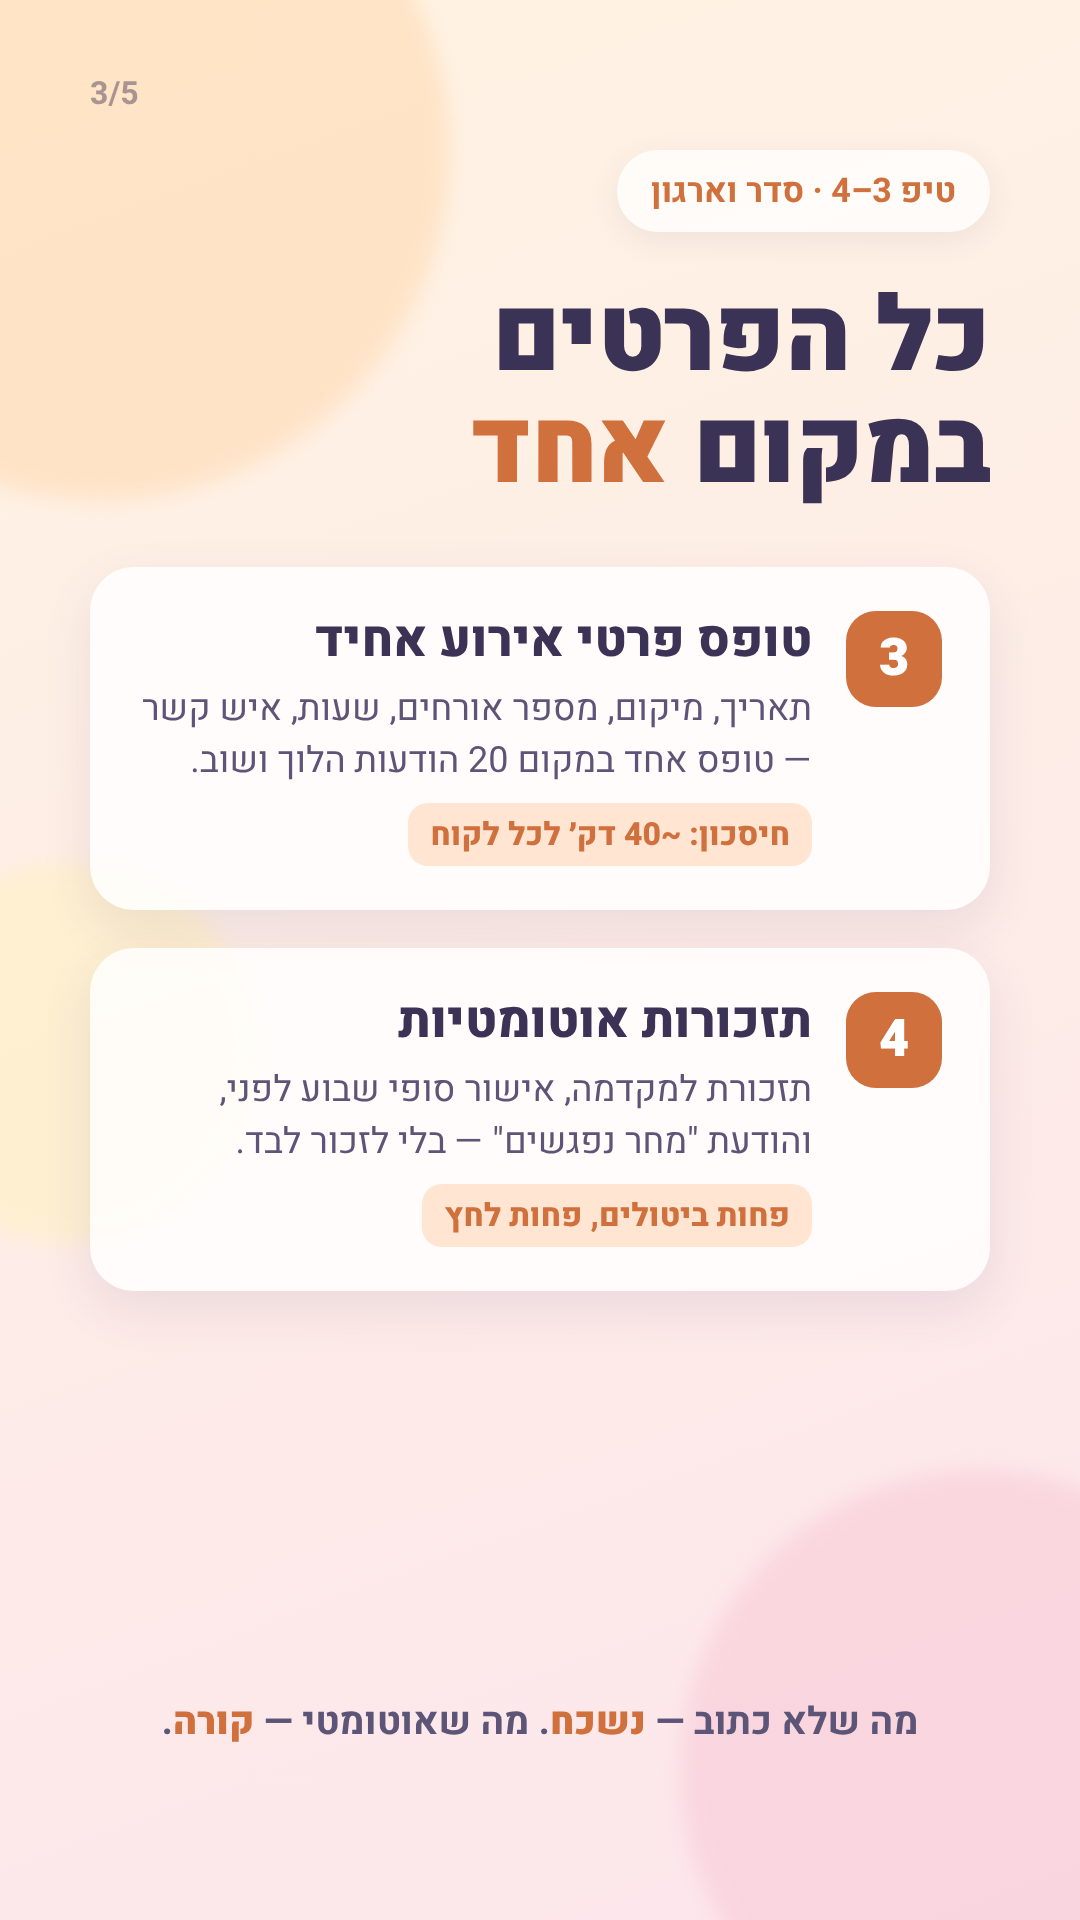
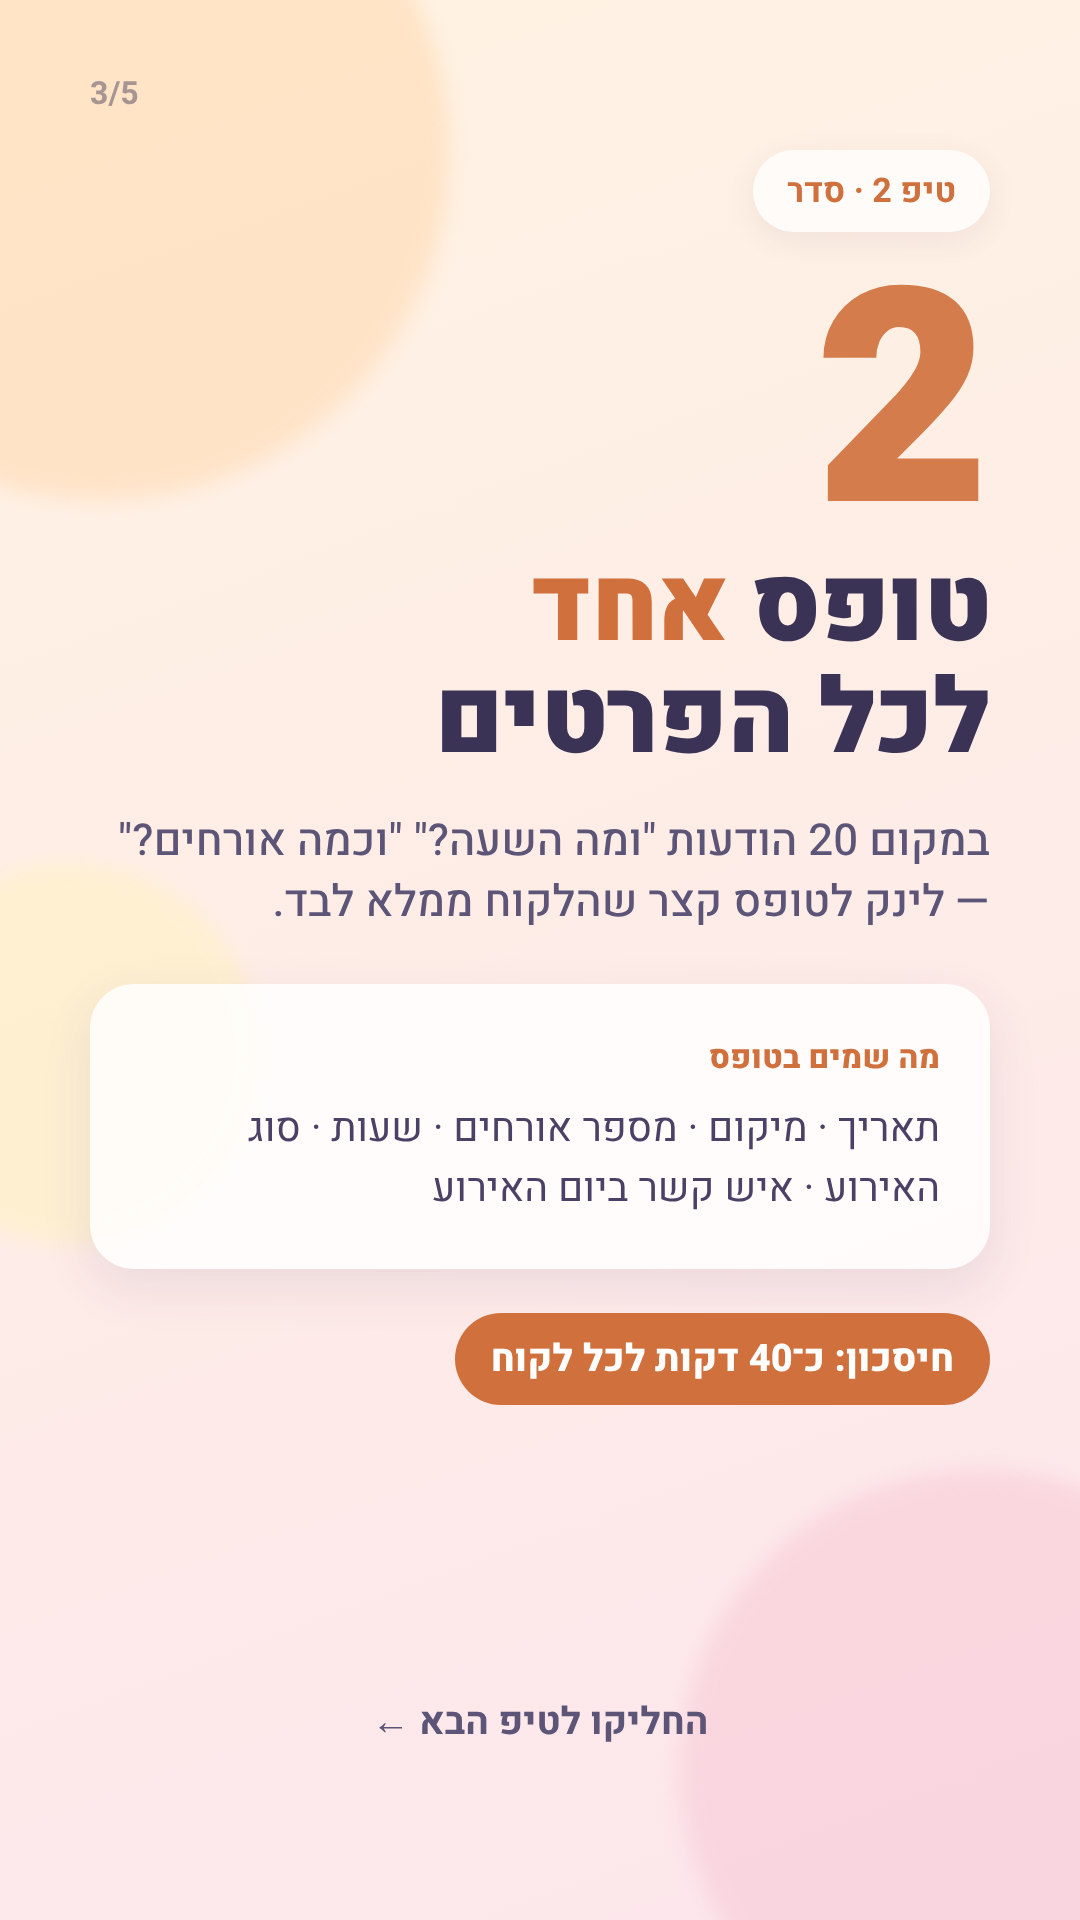
Rework TikTok carousel: hook slide, 3 general tips, quote system as tip 4
Claude-Session: https://claude.ai/code/session_01HykdwJMjJhYxndv9QKPnXH

diff --git a/tiktok-images/generate.js b/tiktok-images/generate.js
@@ -23,10 +23,21 @@ h1 em{font-style:normal;color:var(--accent)}
 .foot{margin-top:auto;font-size:38px;font-weight:700;color:#5d5578;text-align:center}
 .foot b{color:var(--accent)}
 `;
+const css2 = `
+.big{font-size:300px;font-weight:900;line-height:.9;color:var(--accent);opacity:.9;margin-top:40px}
+.ex{margin-top:50px;background:rgba(255,255,255,.82);border-radius:44px;padding:50px;box-shadow:0 18px 50px rgba(80,60,120,.10)}
+.ex .lbl{font-size:32px;font-weight:800;color:var(--accent);margin-bottom:18px}
+.ex p{font-size:40px;line-height:1.5;color:#4a4266}
+.bubble{background:var(--soft);border-radius:30px 30px 30px 8px;padding:28px 34px;font-size:38px;line-height:1.45;margin-top:16px;color:#3B3355}
+.chip{align-self:flex-start;margin-top:44px;background:var(--accent);color:#fff;font-weight:800;font-size:38px;padding:18px 36px;border-radius:60px}
+.hero-list{margin-top:70px;display:flex;flex-direction:column;gap:30px}
+.hero-list div{background:rgba(255,255,255,.8);border-radius:36px;padding:34px 44px;font-size:44px;font-weight:700;box-shadow:0 14px 40px rgba(80,60,120,.08)}
+.hero-list span{color:var(--accent);font-weight:900;margin-left:18px}
+`;
 const blobs = (c1,c2,c3)=>`<div class="bgl"><div class="blob" style="width:700px;height:700px;background:${c1};top:-200px;left:-250px"></div>
 <div class="blob" style="width:600px;height:600px;background:${c2};bottom:-150px;right:-200px"></div>
 <div class="blob" style="width:380px;height:380px;background:${c3};top:45%;left:-120px"></div></div>`;
-const page = (n, theme, body) => `<!doctype html><html><head><meta charset="utf-8"><style>${css}
+const page = (n, theme, body) => `<!doctype html><html><head><meta charset="utf-8"><style>${css}${css2}
 :root{--bg:${theme.bg};--accent:${theme.accent};--soft:${theme.soft}}</style></head>
 <body>${blobs(...theme.blobs)}<div class="page">${n}/5</div><div class="wrap">${body}</div></body></html>`;
 const card = (i,t,p,s)=>`<div class="card"><div class="num">${i}</div><div><h3>${t}</h3><p>${p}</p>${s?`<span class="save">${s}</span>`:''}</div></div>`;
@@ -40,37 +51,38 @@ const T = [
 ];
 
 const pages = [
- page(1,T[0],`<div class="tag">לבעלי עסקים קטנים בתחום האירועים</div>
- <h1>עובדים 12 שעות ביום<br>ו<em>עדיין</em> לא מספיקים?</h1>
- <div class="sub">רוב הזמן שלכם לא הולך על האירוע עצמו —<br>הוא הולך על כל מה שמסביב.</div>
- <div class="cards">
-  ${card('?','מענה לאותן שאלות שוב ושוב','"כמה זה עולה?" "אתם פנויים ב־12/3?"')}
-  ${card('?','רדיפה אחרי מקדמות ואישורים','הודעות, תזכורות, ועוד הודעות…')}
-  ${card('?','הצעת מחיר שלוקחת שעה','וורד, מחשבון, תיקונים ושליחה מחדש')}
+ page(1,T[0],`<div class="tag">לבעלי עסקים בתחום האירועים</div>
+ <h1 style="font-size:116px;margin-top:80px">בעל עסק של אירועים<br>ו<em>אין לך זמן?</em></h1>
+ <div class="sub" style="font-size:52px;font-weight:700;color:#3B3355;margin-top:50px">קבל 4 טיפים לחסוך זמן<br>כבר מהשבוע הזה</div>
+ <div class="hero-list">
+  <div><span>01</span>פחות הקלדה</div>
+  <div><span>02</span>פחות הודעות הלוך ושוב</div>
+  <div><span>03</span>פחות הסחות דעת</div>
+  <div><span>04</span>הטיפ שחוסך הכי הרבה</div>
  </div>
- <div class="foot">החליקו ← <b>טיפים שיחזירו לכם שעות כל שבוע</b></div>`),
- page(2,T[1],`<div class="tag">טיפ 1–2 · תקשורת עם לקוחות</div>
- <h1>תפסיקו <em>להקליד</em><br>את אותה הודעה</h1>
- <div class="cards">
-  ${card(1,'הודעות מוכנות בוואטסאפ ביזנס','הכינו תשובות קבועות: מחירון בסיסי, אזורי שירות, איך מזמינים, מה כלול בחבילה. לחיצה אחת — ונשלח.','חיסכון: ~3 שעות בשבוע')}
-  ${card(2,'יומן זמינות אונליין','במקום "רגע, אני בודק ביומן" — שלחו לינק שבו הלקוח רואה תאריכים פנויים וקובע שיחה לבד.','חיסכון: ~2 שעות בשבוע')}
- </div>
- <div class="foot">טיפ קטן: תנו להודעת הפתיחה <b>לסנן</b> לקוחות לא רלוונטיים</div>`),
- page(3,T[2],`<div class="tag">טיפ 3–4 · סדר וארגון</div>
- <h1>כל הפרטים<br>במקום <em>אחד</em></h1>
- <div class="cards">
-  ${card(3,'טופס פרטי אירוע אחיד','תאריך, מיקום, מספר אורחים, שעות, איש קשר — טופס אחד במקום 20 הודעות הלוך ושוב.','חיסכון: ~40 דק׳ לכל לקוח')}
-  ${card(4,'תזכורות אוטומטיות','תזכורת למקדמה, אישור סופי שבוע לפני, והודעת "מחר נפגשים" — בלי לזכור לבד.','פחות ביטולים, פחות לחץ')}
- </div>
- <div class="foot">מה שלא כתוב — <b>נשכח</b>. מה שאוטומטי — <b>קורה</b>.</div>`),
- page(4,T[3],`<div class="tag">טיפ 5–6 · סגירת עסקאות</div>
- <h1>סוגרים לקוח<br><em>בלי</em> פגישה נוספת</h1>
- <div class="cards">
-  ${card(5,'חוזה וחתימה דיגיטלית','הלקוח חותם מהטלפון תוך דקה. בלי הדפסות, סריקות ו"שלחתי לך במייל?"','חיסכון: ~1 שעה לכל סגירה')}
-  ${card(6,'לינק תשלום למקדמה','המקדמה משולמת באותו רגע שבו הלקוח מתלהב — ולא אחרי שבוע של מרדפים.','בלי מרדפים אחרי כסף')}
- </div>
- <div class="foot">ורגע לפני כל זה, יש <b>צעד אחד</b> שאוכל הכי הרבה זמן ←</div>`),
- page(5,T[4],`<div class="tag">הטיפ הכי חשוב</div>
+ <div class="foot">החליקו ← <b>ותחזירו לעצמכם שעות</b></div>`),
+page(2,T[1],`<div class="tag">טיפ 1 · תקשורת</div>
+ <div class="big">1</div>
+ <h1 style="margin-top:10px"><em>תשובות מוכנות</em><br>בוואטסאפ</h1>
+ <div class="sub">את אותן 5 שאלות שואלים אתכם כל יום. תכתבו את התשובה פעם אחת — ותשלחו בלחיצה.</div>
+ <div class="ex"><div class="lbl">דוגמה</div><div class="bubble">היי! המחיר לאירוע מתחיל מ־X ₪ וכולל… לבדיקת זמינות שלחו תאריך, מיקום ומספר אורחים</div></div>
+ <div class="chip">חיסכון: כ־3 שעות בשבוע</div>
+ <div class="foot">החליקו לטיפ הבא ←</div>`),
+page(3,T[2],`<div class="tag">טיפ 2 · סדר</div>
+ <div class="big">2</div>
+ <h1 style="margin-top:10px">טופס <em>אחד</em><br>לכל הפרטים</h1>
+ <div class="sub">במקום 20 הודעות "ומה השעה?" "וכמה אורחים?" — לינק לטופס קצר שהלקוח ממלא לבד.</div>
+ <div class="ex"><div class="lbl">מה שמים בטופס</div><p>תאריך · מיקום · מספר אורחים · שעות · סוג האירוע · איש קשר ביום האירוע</p></div>
+ <div class="chip">חיסכון: כ־40 דקות לכל לקוח</div>
+ <div class="foot">החליקו לטיפ הבא ←</div>`),
+page(4,T[3],`<div class="tag">טיפ 3 · ריכוז</div>
+ <div class="big">3</div>
+ <h1 style="margin-top:10px">שעה <em>קבועה</em><br>להודעות</h1>
+ <div class="sub">לענות לכל הודעה ברגע שהיא מגיעה — זה מה שגונב לכם את היום. קבעו 2 חלונות ביום לענות לכולם ביחד.</div>
+ <div class="ex"><div class="lbl">איך זה נראה</div><p>10:00 ו־17:00 — סבב תשובות.<br>בין לבין: התראות כבויות, עבודה רצופה.</p></div>
+ <div class="chip">פחות הסחות · יותר ריכוז</div>
+ <div class="foot">החליקו לטיפ הבא ←</div>`),
+ page(5,T[4],`<div class="tag">טיפ 4 · הטיפ שחוסך הכי הרבה</div>
  <h1>הצעת מחיר<br>ב<em>דקה</em>, לא בשעה</h1>
  <div class="sub">מערכת הצעות המחיר שלי נבנתה בדיוק בשביל בעלי עסקים בתחום האירועים:</div>
  <div class="cards" style="gap:26px;margin-top:44px">
